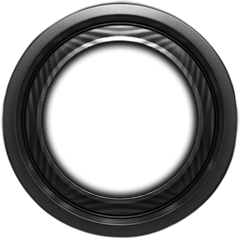
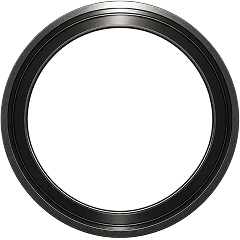
feat: change node borders

diff --git a/src/constants.ts b/src/constants.ts
@@ -7,7 +7,7 @@ export const NODE_RADIUS_LARGE = 72 as const;
 export const NODE_RADIUS_EXTRALARGE = 96 as const;
 export const NODE_RADIUS_SUPERLARGE = 120 as const;
 export const NODE_STROKE_WIDTH = 8 as const;
-export const NODE_ICON_SIZE_PERCENT = 0.75 as const;
+export const NODE_ICON_SIZE_PERCENT = 0.88 as const;
 
 export const ATLAS_SCALE_FACTOR = 1.5 as const;
 
